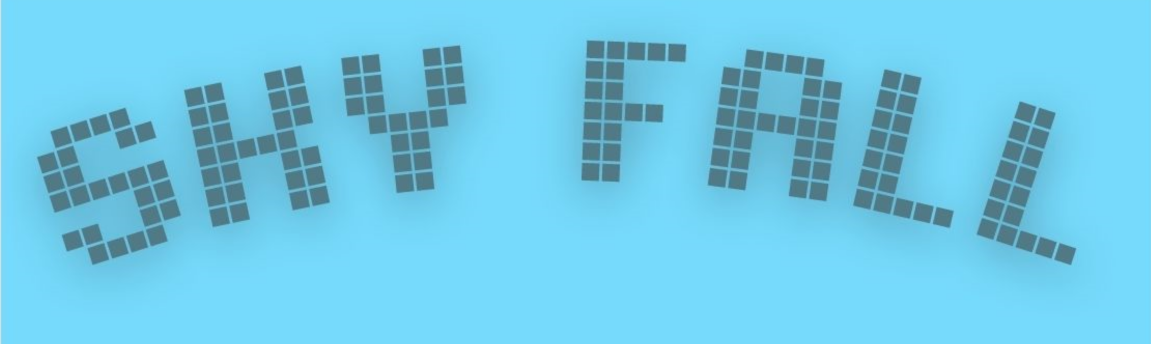
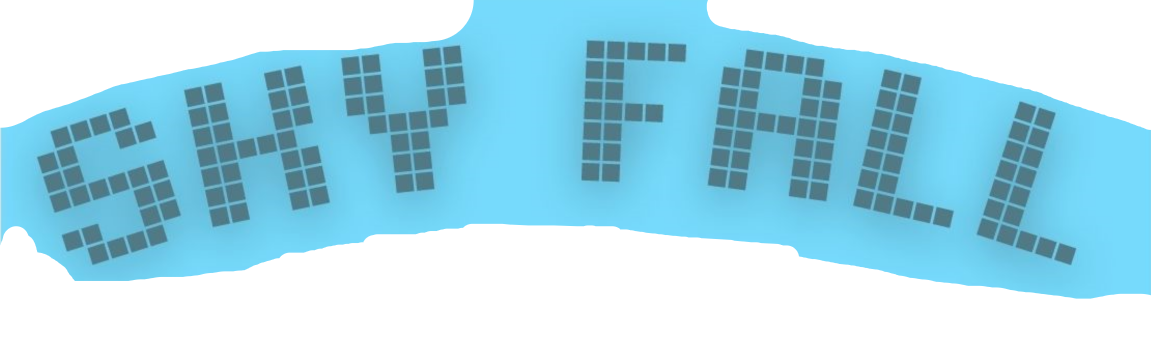
ground1 cambiado

diff --git a/assets/scenes/Game.js b/assets/scenes/Game.js
@@ -7,6 +7,7 @@ import {
   OBST,
   DRON,
   GLOBO,
+  GLOBO_sg,
   AVE,
   AVE_sg,
   ammo,
@@ -22,6 +23,7 @@ export default class Game extends Phaser.Scene {
     this.shapesRecolected = {
       ["dron"]: { score: 100 },
       ["globo"]: { score: 200 },
+      ["globo2"]: { score: 200 },
       ["ave"]: { score: 150 },
       ["ave2"]: { score: 150 },
     };
@@ -54,9 +56,16 @@ export default class Game extends Phaser.Scene {
     this.sky.y = 0;
 
     // Background ground
-    this.ground = 
-    this.add.image(120, 580, "ground").setScale(1);
+    this.ground =
+    this.add.image(400, 580, "ground").setScale(0.3);
+    this.ground2 =
+    this.add.image(100, 580, "ground").setScale(0.3);
+    this.ground3 =
+    this.add.image(700, 580, "ground").setScale(0.3);
+  
     this.ground.setVisible(false);
+    this.ground2.setVisible(false);
+    this.ground3.setVisible(false);
 
     this.scoreText = this.add.text(575, 35, "SCORE:", {
       fontSize: "30px",
@@ -165,6 +174,8 @@ export default class Game extends Phaser.Scene {
     // Verificar si el fondo de cielo está fuera de la pantalla y reiniciarlo
     if (this.sky.y <= -570) {
       this.ground.setVisible(true);
+      this.ground2.setVisible(true);
+      this.ground3.setVisible(true);
 
       // Animar el movimiento vertical del jugador
       this.tweens.add({
@@ -189,7 +200,7 @@ collectShape(player, shapeGroup) {
   console.log("LEER ACA" + this.life)
 }
 addShape() {
-  const randomShape = Phaser.Math.RND.pick([DRON, GLOBO, AVE, AVE_sg]) 
+  const randomShape = Phaser.Math.RND.pick([DRON, GLOBO,GLOBO_sg, AVE, AVE_sg]) 
   const randomX = Phaser.Math.RND.between(0, 800);
 
   this.shapesGroup.create(randomX, 800, randomShape)

diff --git a/assets/scenes/Game2.js b/assets/scenes/Game2.js
@@ -7,7 +7,9 @@ import {
   OBST,
   DRON,
   GLOBO,
+  GLOBO_sg,
   AVE,
+  AVE_sg,
   ammo,
   powerUp_life,
   POWUP,
@@ -22,7 +24,9 @@ export default class Game2 extends Phaser.Scene {
     this.shapesRecolected = {
       ["dron"]: { score: 100 },
       ["globo"]: { score: 200 },
+      ["globo2"]: { score: 200 },
       ["ave"]: { score: 150 },
+      ["ave2"]: { score: 150 },
     };
 
     this.isWinner = false;
@@ -193,7 +197,7 @@ export default class Game2 extends Phaser.Scene {
   //dron() { 
   //Game.physics.add.image(120, 550, "dron").setScale(0.17);
   addShape() {
-    const randomShape = Phaser.Math.RND.pick([DRON, GLOBO, AVE])
+    const randomShape = Phaser.Math.RND.pick([DRON, GLOBO,GLOBO_sg, AVE, AVE_sg])
     const randomX = Phaser.Math.RND.between(0, 800);
 
     this.shapesGroup.create(randomX, 800, randomShape)

diff --git a/assets/scenes/Game3.js b/assets/scenes/Game3.js
@@ -7,7 +7,9 @@ const config = {
     OBST,
     DRON,
     GLOBO,
+    GLOBO_sg,
     AVE,
+    AVE_sg,
     ammo,
     powerUp_life,
     POWUP,
@@ -22,7 +24,9 @@ const config = {
       this.shapesRecolected = {
         ["dron"]: { score: 100 },
         ["globo"]: { score: 200 },
+        ["globo2"]: { score: 200 },
         ["ave"]: { score: 150 },
+        ["ave2"]: { score: 150 },
       };
   
       this.isWinner = false;
@@ -193,7 +197,7 @@ const config = {
     //dron() { 
     //Game.physics.add.image(120, 550, "dron").setScale(0.17);
     addShape() {
-      const randomShape = Phaser.Math.RND.pick([DRON, GLOBO, AVE])
+      const randomShape = Phaser.Math.RND.pick([DRON, GLOBO,GLOBO_sg, AVE, AVE_sg])
       const randomX = Phaser.Math.RND.between(0, 800);
   
       this.shapesGroup.create(randomX, 800, randomShape)

diff --git a/assets/scenes/Util.js b/assets/scenes/Util.js
@@ -1,7 +1,8 @@
 const DRON = "dron";
 const GLOBO = "globo";
 const AVE = "ave";
-const AVE_sg = "ave2"
+const AVE_sg = "ave2";
+const GLOBO_sg = "globo2";
 
 const ammo = "ammo";
 const powerUp_life = "life";
@@ -10,6 +11,6 @@ const POWUP = [ammo, powerUp_life];
 //const beam = "beam";
 
 const OBST_DELAY = 2000;
-const OBST = [DRON, GLOBO, AVE, AVE_sg];
+const OBST = [DRON, GLOBO, AVE, AVE_sg, GLOBO_sg];
 
-export {DRON, GLOBO, AVE, AVE_sg, OBST_DELAY, OBST, ammo, powerUp_life, POWUP};
+export {DRON, GLOBO, AVE, AVE_sg, GLOBO_sg, OBST_DELAY, OBST, ammo, powerUp_life, POWUP};

diff --git a/assets/scenes/PreLoad.js b/assets/scenes/PreLoad.js
@@ -33,6 +33,7 @@ export default class PreLoad extends Phaser.Scene {
     this.load.image("ave", "./public/images/ave.png");
     this.load.image("ave2", "./public/images/ave2.png");
     this.load.image("globo", "./public/images/globoS.png");
+    this.load.image("globo2", "./public/images/globoS2.png");
     this.load.image("noSt", "./public/images/noSt.png");
     this.load.image("onSt", "./public/images/onSt.png");
     this.load.image("twSt", "./public/images/twSt.png");
